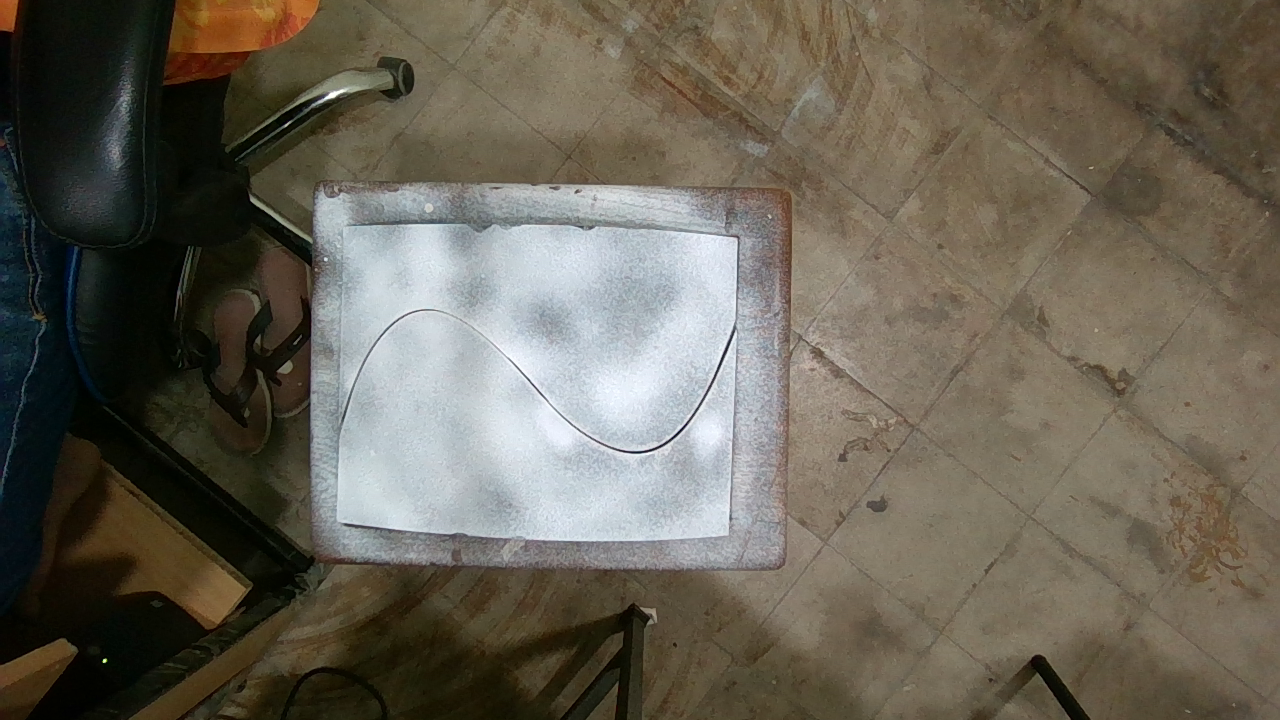
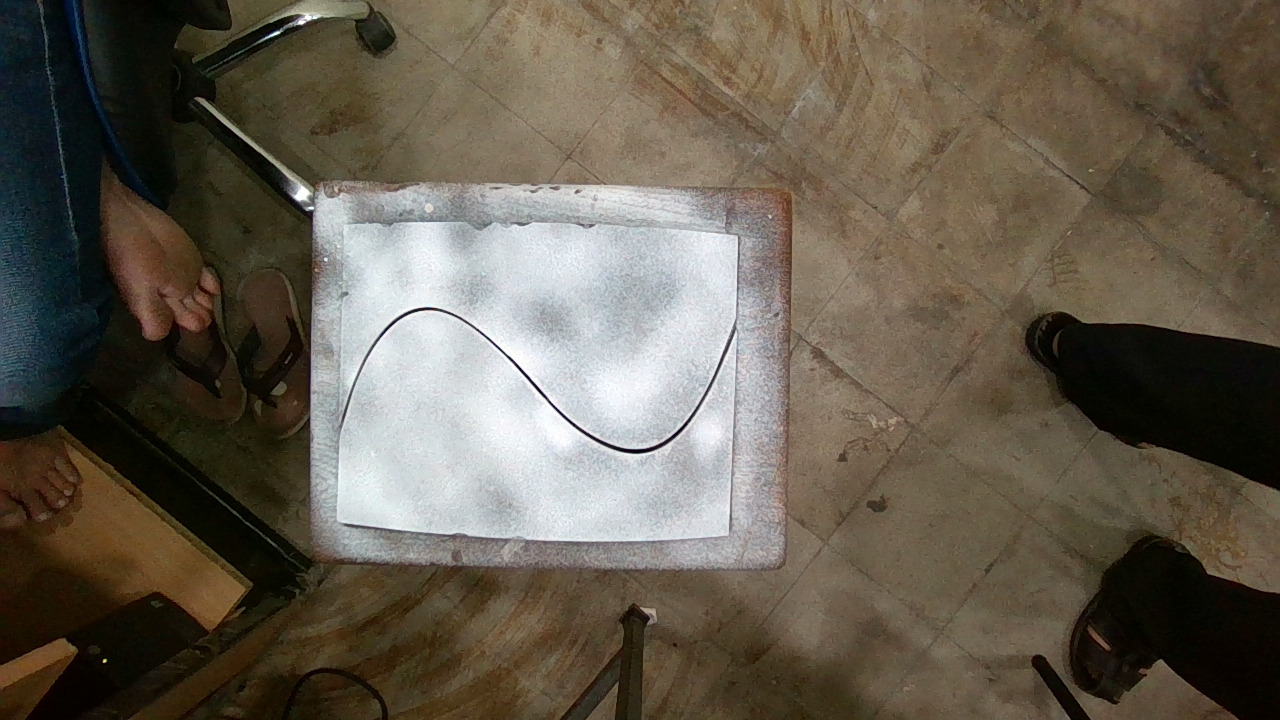
Edge detection workflow works now.

diff --git a/src/components/VideoAnalysisApp.tsx b/src/components/VideoAnalysisApp.tsx
@@ -182,6 +182,12 @@ const VideoAnalysisApp: React.FC = () => {
   } | null>(null);
   const [showAnalysisPopup, setShowAnalysisPopup] = useState(false);
   
+  // Add these new states for edge detection
+  const [showEdgeDetectionConfirm, setShowEdgeDetectionConfirm] = useState(false);
+  const [isRunningEdgeDetection, setIsRunningEdgeDetection] = useState(false);
+  const [edgeDetectionResult, setEdgeDetectionResult] = useState<string | null>(null);
+  const [savedImagePath, setSavedImagePath] = useState<string | null>(null);
+  
   // Effect for getting cameras
   useEffect(() => {
     const getCameras = async () => {
@@ -1233,7 +1239,57 @@ const handleDeleteROI = (isFirst: boolean) => {
     }
   };
   
-  // Add function to handle analysis
+  // Add function to run edge detection
+  const runEdgeDetection = async () => {
+    setIsRunningEdgeDetection(true);
+    
+    try {
+      // If we don't have a saved image path yet, save the ROI first
+      if (!savedImagePath) {
+        let imagePath = '';
+        
+        // Prioritize ROI 1 if available, otherwise use ROI 2
+        if (roiAnalysis.roi1Image) {
+          imagePath = await saveROIAsImage(roiAnalysis.roi1Image, 'roi1.png');
+        } else if (roiAnalysis.roi2Image) {
+          imagePath = await saveROIAsImage(roiAnalysis.roi2Image, 'roi2.png');
+        } else {
+          throw new Error('No ROI selected for edge detection');
+        }
+        
+        // Save the image path for future use
+        setSavedImagePath(imagePath);
+      }
+      
+      const response = await fetch('/api/run-edge-detection', {
+        method: 'POST',
+        headers: {
+          'Content-Type': 'application/json'
+        },
+        body: JSON.stringify({ imagePath: savedImagePath || '' })
+      });
+      
+      if (!response.ok) {
+        throw new Error('Failed to run edge detection');
+      }
+      
+      const result = await response.json();
+      
+      if (result.success && result.edgeDetectionImagePath) {
+        setEdgeDetectionResult(result.edgeDetectionImagePath);
+      } else {
+        throw new Error(result.error || 'Edge detection failed');
+      }
+    } catch (err: any) {
+      console.error('Error running edge detection:', err);
+      setError(err.message || 'Failed to run edge detection');
+    } finally {
+      setIsRunningEdgeDetection(false);
+      setShowEdgeDetectionConfirm(false);
+    }
+  };
+  
+  // Modify the handleAnalyze function to not show edge detection confirmation
   const handleAnalyze = async () => {
     // Check if ROIs are selected
     if (!roiAnalysis.roi1Image && !roiAnalysis.roi2Image) {
@@ -1253,6 +1309,9 @@ const handleDeleteROI = (isFirst: boolean) => {
         imagePath = await saveROIAsImage(roiAnalysis.roi2Image, 'roi2.png');
       }
       
+      // Save the image path for edge detection
+      setSavedImagePath(imagePath);
+      
       // Run weld prediction
       const result = await runWeldPrediction(imagePath);
       
@@ -1270,10 +1329,10 @@ const handleDeleteROI = (isFirst: boolean) => {
         }
       }
       
-      // Show popup
+      // Show joint identification popup
       setShowAnalysisPopup(true);
       
-      // Auto-hide popup after 5 seconds
+      // Auto-hide analysis popup after 5 seconds
       setTimeout(() => {
         setShowAnalysisPopup(false);
       }, 5000);
@@ -1700,7 +1759,7 @@ const handleDeleteROI = (isFirst: boolean) => {
                     )}
                   </div>
                 </div>
-                <div className="mt-4">
+                <div className="mt-4 grid grid-cols-2 gap-2">
                   <Button 
                     className="w-full" 
                     onClick={handleAnalyze}
@@ -1713,6 +1772,21 @@ const handleDeleteROI = (isFirst: boolean) => {
                       </>
                     ) : (
                       'Analyse'
+                    )}
+                  </Button>
+                  <Button 
+                    className="w-full" 
+                    onClick={runEdgeDetection}
+                    disabled={isRunningEdgeDetection || (!roiAnalysis.roi1Image && !roiAnalysis.roi2Image)}
+                    variant="outline"
+                  >
+                    {isRunningEdgeDetection ? (
+                      <>
+                        <Spinner className="mr-2 h-4 w-4" />
+                        Processing...
+                      </>
+                    ) : (
+                      'Edge Detection'
                     )}
                   </Button>
                 </div>
@@ -1857,7 +1931,24 @@ const handleDeleteROI = (isFirst: boolean) => {
                 </div>
               </CardHeader>
               <CardContent className="p-4">
-                <div className="aspect-video bg-muted rounded-lg border border-border hover:border-primary/50 transition-colors"></div>
+                <div className="aspect-video bg-muted rounded-lg border border-border hover:border-primary/50 transition-colors">
+                  {isRunningEdgeDetection ? (
+                    <div className="h-full flex items-center justify-center">
+                      <Spinner className="mr-2 h-6 w-6" />
+                      <span>Processing edge detection...</span>
+                    </div>
+                  ) : edgeDetectionResult ? (
+                    <img 
+                      src={edgeDetectionResult} 
+                      alt="Edge Detection Result" 
+                      className="w-full h-full object-contain"
+                    />
+                  ) : (
+                    <div className="h-full flex items-center justify-center">
+                      <span className="text-sm text-muted-foreground">No edge detection results</span>
+                    </div>
+                  )}
+                </div>
               </CardContent>
             </Card>
 

diff --git a/src/app/api/run-edge-detection/route.ts b/src/app/api/run-edge-detection/route.ts
@@ -1,0 +1,66 @@
+import { NextRequest, NextResponse } from 'next/server';
+import { exec } from 'child_process';
+import { promisify } from 'util';
+import { join } from 'path';
+import * as fs from 'fs/promises';
+import * as fsSync from 'fs'; // Import sync fs functions
+import * as path from 'path';
+
+const execAsync = promisify(exec);
+
+export async function POST(request: NextRequest) {
+  try {
+    // Get the image path from the request
+    const { imagePath } = await request.json();
+
+    if (!imagePath) {
+      return NextResponse.json(
+        { error: 'No image path provided' },
+        { status: 400 }
+      );
+    }
+
+    // Create the edge detection results directory if it doesn't exist
+    const edgeDetectionDir = join(process.cwd(), 'public', 'edge_detection_results');
+    try {
+      await fs.mkdir(edgeDetectionDir, { recursive: true });
+    } catch (error) {
+      console.log('Edge detection directory already exists or could not be created');
+    }
+
+    // Get the absolute path to the image
+    const absoluteImagePath = join(process.cwd(), 'public', imagePath.replace(/^\//, ''));
+    
+    // Get the path to the Fit_curve.py script
+    const scriptPath = join(process.cwd(), 'public', 'Fit_curve.py');
+
+    // Determine the command to run the script
+    const command = `python "${scriptPath}" "${absoluteImagePath}" "${edgeDetectionDir}"`;
+    
+    console.log(`Running command: ${command}`);
+
+    // Execute the command
+    const { stdout, stderr } = await execAsync(command);
+    
+    if (stderr) {
+      console.error(`Error running edge detection: ${stderr}`);
+    }
+    
+    console.log(`Edge detection output: ${stdout}`);
+
+    // Get the output file path from the stdout or construct it
+    const outputFileName = `${imagePath.split('/').pop().split('.')[0]}_edge_detection.jpg`;
+    const outputPath = `/edge_detection_results/${outputFileName}`;
+
+    return NextResponse.json({
+      success: true,
+      edgeDetectionImagePath: outputPath
+    });
+  } catch (error: any) {
+    console.error('Error in edge detection API:', error);
+    return NextResponse.json(
+      { error: 'Failed to run edge detection', details: error.message },
+      { status: 500 }
+    );
+  }
+} 

diff --git a/public/Fit_curve.py b/public/Fit_curve.py
@@ -1,0 +1,108 @@
+import cv2
+import numpy as np
+import os
+import sys
+import re
+from glob import glob
+
+def resize_to_fit(image, window_width=800, window_height=600):
+    """Resize the image to fit within the specified window size while maintaining aspect ratio."""
+    h, w = image.shape[:2]
+    scale = min(window_width / w, window_height / h)
+    new_w = int(w * scale)
+    new_h = int(h * scale)
+    resized_image = cv2.resize(image, (new_w, new_h), interpolation=cv2.INTER_AREA)
+    return resized_image, scale
+
+def process_image(image_path, output_dir):
+    """Process an image for edge detection with clear annotations."""
+    # Read the image
+    img = cv2.imread(image_path, cv2.IMREAD_COLOR)
+    if img is None:
+        print(f"Failed to read image: {image_path}")
+        return None
+
+    # Create a copy for drawing
+    result_img = img.copy()
+    
+    # Convert to grayscale for edge detection
+    gray = cv2.cvtColor(img, cv2.COLOR_BGR2GRAY)
+    
+    # Apply edge detection
+    edges = detect_edges(gray)
+    
+    # Draw the edges on the image in red
+    result_img[edges > 0] = [0, 0, 255]  # Red color for edges
+    
+    # Add annotations
+    h, w = img.shape[:2]
+    
+    # Add a title at the top
+    cv2.putText(result_img, "Edge Detection Result", (10, 30),
+               cv2.FONT_HERSHEY_SIMPLEX, 0.8, (0, 255, 0), 2)
+    
+    # Add information about the image
+    cv2.putText(result_img, f"Image: {os.path.basename(image_path)}", (10, h - 60),
+               cv2.FONT_HERSHEY_SIMPLEX, 0.6, (255, 255, 255), 2)
+    cv2.putText(result_img, f"Size: {w}x{h} pixels", (10, h - 30),
+               cv2.FONT_HERSHEY_SIMPLEX, 0.6, (255, 255, 255), 2)
+    
+    # Save the result
+    base_name = os.path.splitext(os.path.basename(image_path))[0]
+    output_path = os.path.join(output_dir, f'{base_name}_edge_detection.jpg')
+    cv2.imwrite(output_path, result_img)
+    print(f"Edge detection completed for {image_path}")
+    return [output_path]
+
+def detect_edges(gray):
+    """Detect edges in a grayscale image and return a binary edge map."""
+    # Parameters for image processing
+    gk = 11  # Gaussian kernel size
+    cl = 90  # Canny lower threshold
+    cu = 140 # Canny upper threshold
+    ap = 3   # Aperture size
+    
+    # Apply GaussianBlur
+    blurred = cv2.GaussianBlur(gray, (gk, gk), 0)
+    
+    # Apply Canny edge detector
+    edges = cv2.Canny(blurred, cl, cu, apertureSize=ap)
+    
+    # Dilate the edges slightly to make them more visible
+    kernel = np.ones((2, 2), np.uint8)
+    edges = cv2.dilate(edges, kernel, iterations=1)
+    
+    return edges
+
+def main():
+    # Check command line arguments
+    if len(sys.argv) < 3:
+        print("Usage: python Fit_curve.py <input_image_path> <output_directory>")
+        return
+    
+    input_path = sys.argv[1]
+    output_dir = sys.argv[2]
+    
+    # Create output directory if it doesn't exist
+    os.makedirs(output_dir, exist_ok=True)
+    
+    # Check if input_path is a file or directory
+    if os.path.isfile(input_path):
+        # Process a single file
+        process_image(input_path, output_dir)
+    else:
+        # Process all images in the directory
+        input_dir = os.path.dirname(input_path) if os.path.isfile(input_path) else input_path
+        image_extensions = ['*.png', '*.jpg', '*.jpeg', '*.bmp', '*.tiff', '*.gif', '*.JPG']
+        image_files = []
+        for ext in image_extensions:
+            image_files.extend(glob(os.path.join(input_dir, ext)))
+        
+        # Process each image
+        for image_file in image_files:
+            process_image(image_file, output_dir)
+
+    print("Processing complete.")
+
+if __name__ == "__main__":
+    main()
